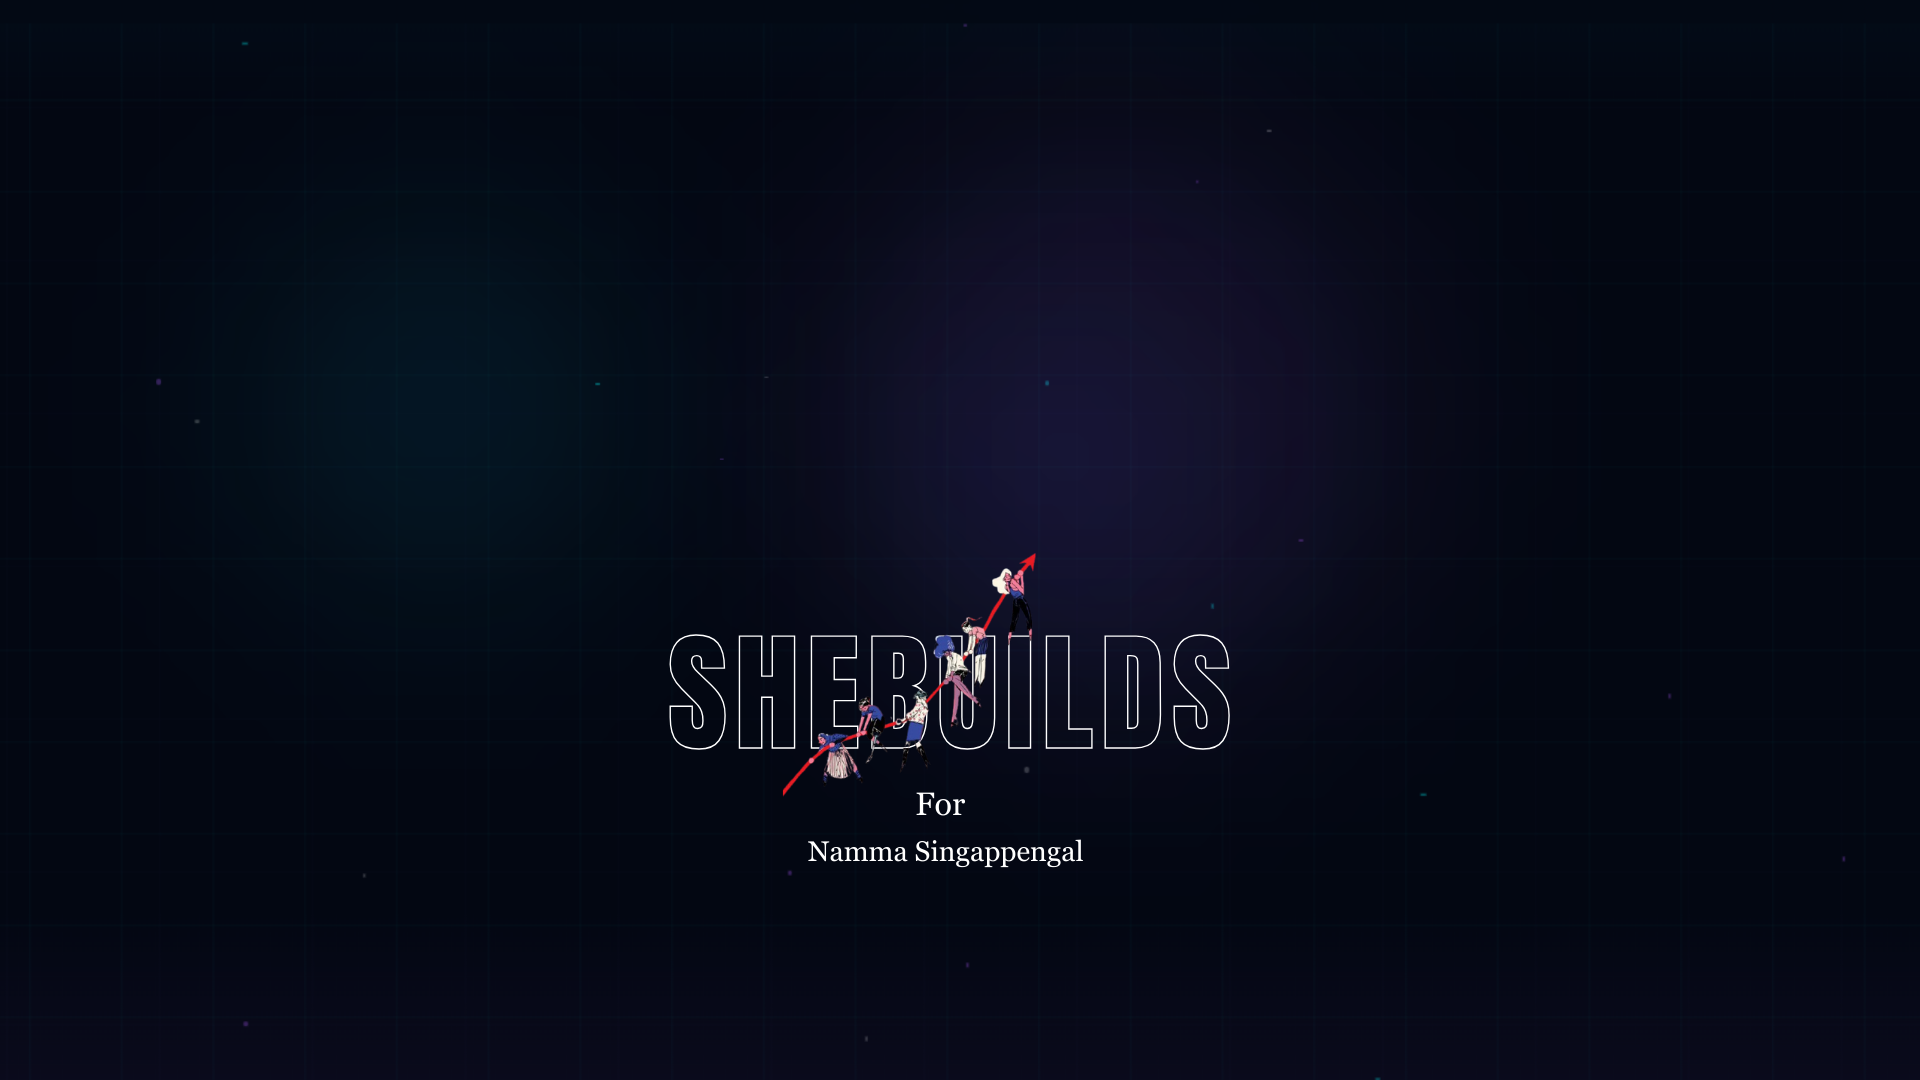
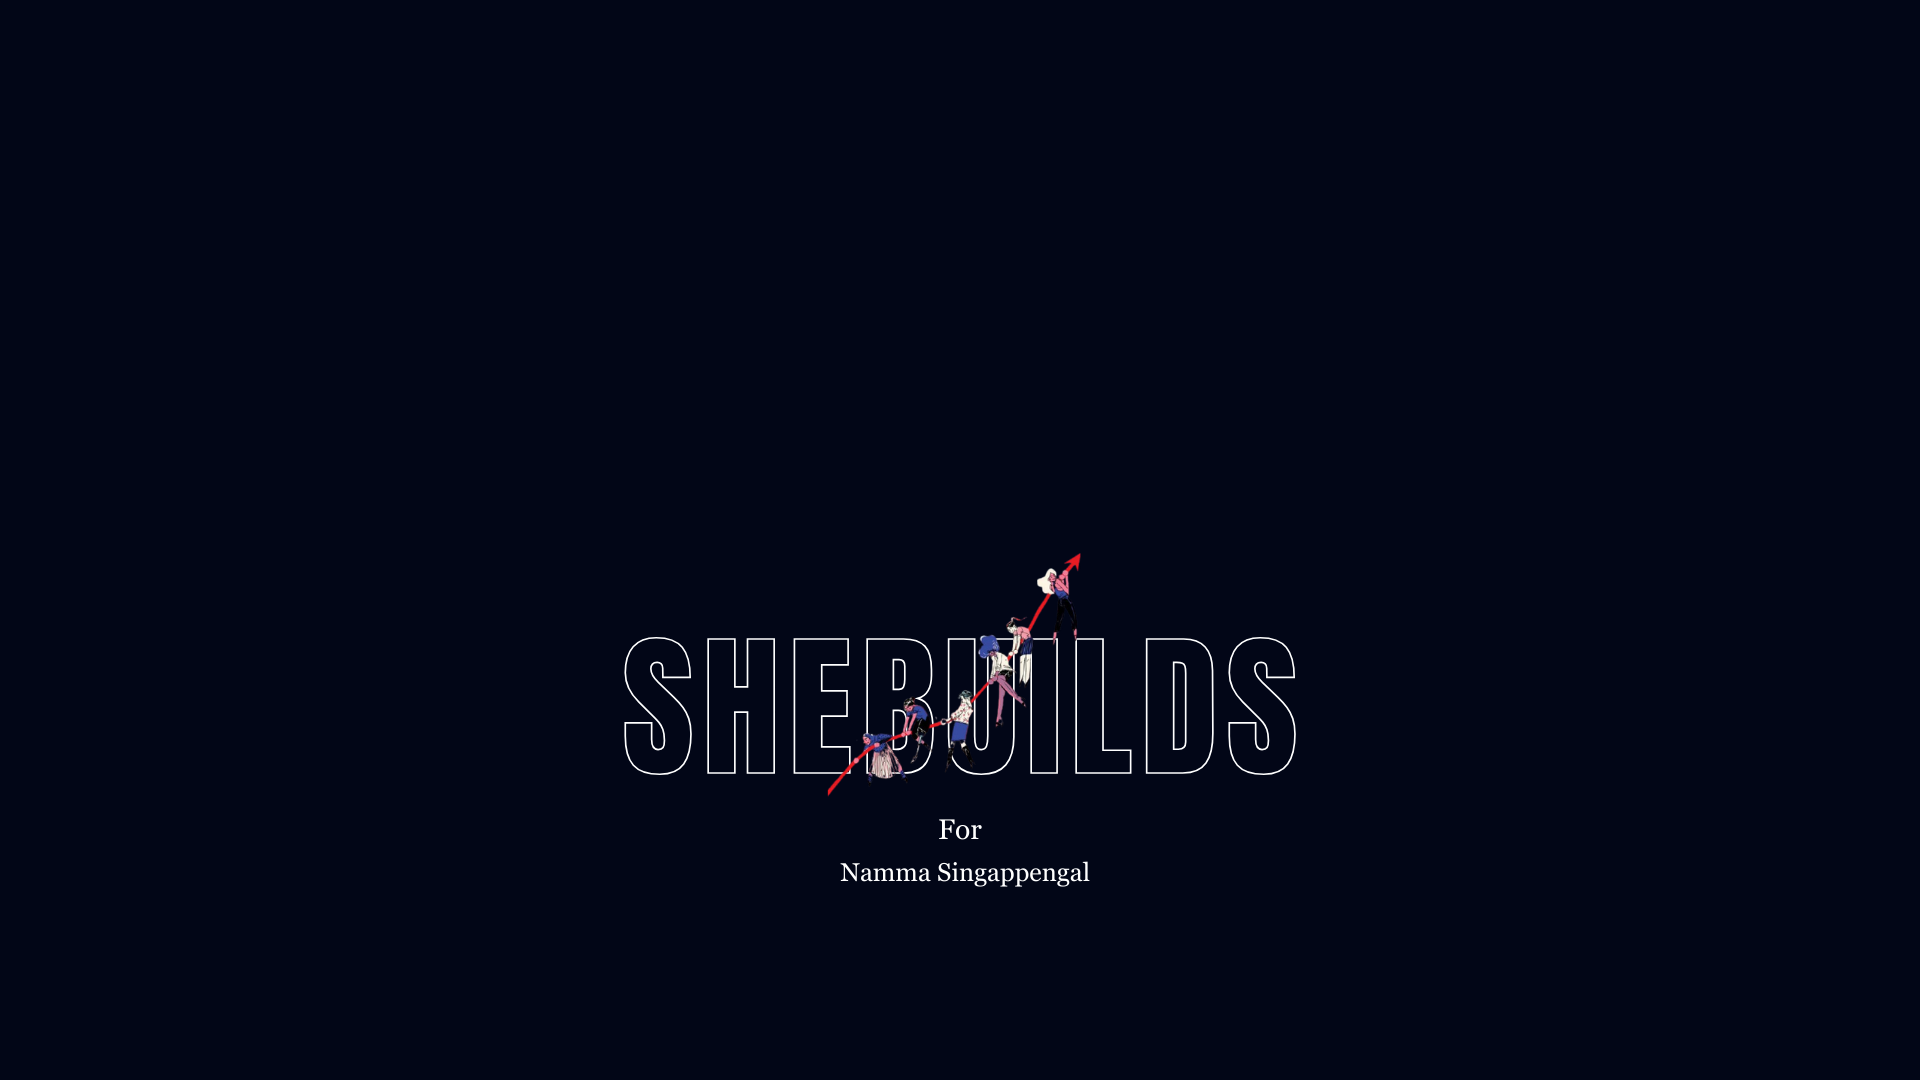
Projectslider bg issue fix3

Changed region(s): [[0.3438, 0.3056, 0.6875, 0.7333], [0.4062, 0.7333, 0.5625, 0.825]]

diff --git a/shebuild/src/App.jsx b/shebuild/src/App.jsx
@@ -16,7 +16,7 @@ export default function App() {
       <div className="min-h-screen relative overflow-hidden">
         <BackgroundEffects />
         <div className="relative z-10 h-full flex flex-col">
-        <BackgroundEffects />
+      
           <Header />
           
           <MainContent />
@@ -51,12 +51,12 @@ export default function App() {
       </div>
       
       {/* Agenda Section */}
-      {/* <div className="relative overflow-hidden">
+      <div className="relative overflow-hidden">
         <BackgroundEffects />
         <div className="relative z-10">
-          <Agenda />
+        
         </div>
-      </div> */}
+      </div>
 
       <div className="relative overflow-hidden">
         <BackgroundEffects />

diff --git a/shebuild/src/components/Projectslider.css b/shebuild/src/components/Projectslider.css
@@ -37,7 +37,7 @@
 .banner {
   position: relative;
   width: 100%;
-  height: 65vh;
+  height: 70vh;
   overflow: visible; /* fixes hollow gap visual */
   perspective: 1200px;
 }

diff --git a/shebuild/src/App.css b/shebuild/src/App.css
@@ -1,7 +1,7 @@
 html, body {
   margin: 0;
   padding: 0;
-  background: #020617; 
+
   height: 100%;
   min-height: -webkit-fill-available;
 }
